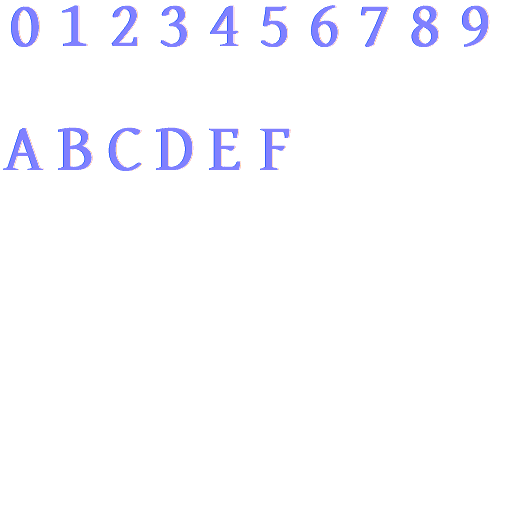
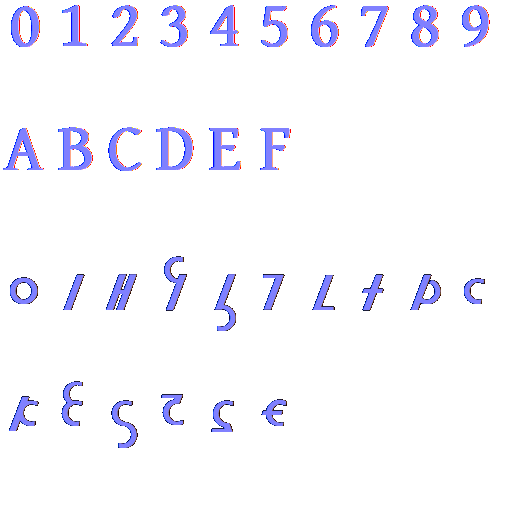
Add files via upload

diff --git a/Web/constell/webgl.php b/Web/constell/webgl.php
@@ -63,6 +63,9 @@ echo "];\n\n";
 
 $mode = max(min((int)$_GET['mode'], 1), 0);
 echo "const mode = ".$mode.";\n";
+$lemNumbers = $_GET['lemNumbers'] > 0;
+echo "const lemNumbers = ".($lemNumbers ? "true" : "false").";\n";
+
 $width  = (int)$_GET['width'];
 $height = (int)$_GET['height'];
 if ($width <=1) $width = 800;
@@ -472,8 +475,11 @@ const starsAttrib = makeAttribute(stars),
 
 const numbersTilesAttrib = makeAttribute([0,0,0,0, 0,-50,0,0, 25,0,0,0, 25,-50,0,0]), numbersTexCoordsAttrib = [];
 for (var i = 0; i<16; i++) numbersTexCoordsAttrib[i] = makeAttribute(
-    [25*(i<10 ? i : i-10)/256,        (i<10 ? 0 : 61)/256, 25*(i<10 ? i : i-10)/256,        (i<10 ? 0 : 61)/256+22/128,
-     25*(i<10 ? i : i-10)/256+11/128, (i<10 ? 0 : 61)/256, 25*(i<10 ? i : i-10)/256+11/128, (i<10 ? 0 : 61)/256+22/128]);
+    [25*(i<10 ? i : i-10)/256,        (i<10 ?   0 :  61)/256, 25*(i<10 ? i : i-10)/256,        (i<10 ?   0 :  61)/256+22/128,
+     25*(i<10 ? i : i-10)/256+11/128, (i<10 ?   0 :  61)/256, 25*(i<10 ? i : i-10)/256+11/128, (i<10 ?   0 :  61)/256+22/128]);
+for (var i = 0; i<16; i++) numbersTexCoordsAttrib[i+16] = makeAttribute(
+    [25*(i<10 ? i : i-10)/256,        (i<10 ? 128 : 189)/256, 25*(i<10 ? i : i-10)/256,        (i<10 ? 128 : 189)/256+22/128,
+     25*(i<10 ? i : i-10)/256+11/128, (i<10 ? 128 : 189)/256, 25*(i<10 ? i : i-10)/256+11/128, (i<10 ? 128 : 189)/256+22/128]);
 
 gl.bindBuffer(gl.ARRAY_BUFFER, null);
 
@@ -594,14 +600,15 @@ if (mode==1 && constellId>0) {
   gl.activeTexture(gl.TEXTURE0);
   gl.bindTexture(gl.TEXTURE_2D, numbersTexture);
   const limit = Math.min(5-zoom*height/600, 3);
+  const lemNumberOffset = lemNumbers ? 16 : 0;
   for (var j = 0; j<2; j++) for (var i = 0; i<starSizes.length; i++) if (starLemConstells[i]==constellId && starLemNumbers[i]>0 && starSizes[i]>=limit) {
     gl.uniform3f(gl.getUniformLocation(numbersProgram, 'star'), stars[3*i], stars[3*i+1], stars[3*i+2]);
-    enableAttribute(numbersProgram, 'texture', numbersTexCoordsAttrib[starLemNumbers[i]>15 ? Math.floor(starLemNumbers[i]/16) : starLemNumbers[i]], 2);
+    enableAttribute(numbersProgram, 'texture', numbersTexCoordsAttrib[(starLemNumbers[i]>15 ? Math.floor(starLemNumbers[i]/16) : starLemNumbers[i])+lemNumberOffset], 2);
     var sizeOffset = starSizes[i]*sqrtZoom-5;
     gl.uniform1f(gl.getUniformLocation(numbersProgram, 'offset'), sizeOffset);
     gl.drawArrays(gl.TRIANGLE_STRIP, 0, 4);
     if (starLemNumbers[i]>15) {
-      enableAttribute(numbersProgram, 'texture', numbersTexCoordsAttrib[starLemNumbers[i]%16], 2);
+      enableAttribute(numbersProgram, 'texture', numbersTexCoordsAttrib[starLemNumbers[i]%16 +lemNumberOffset], 2);
       gl.uniform1f(gl.getUniformLocation(numbersProgram, 'offset'), sizeOffset+17);
       gl.drawArrays(gl.TRIANGLE_STRIP, 0, 4);
     }
